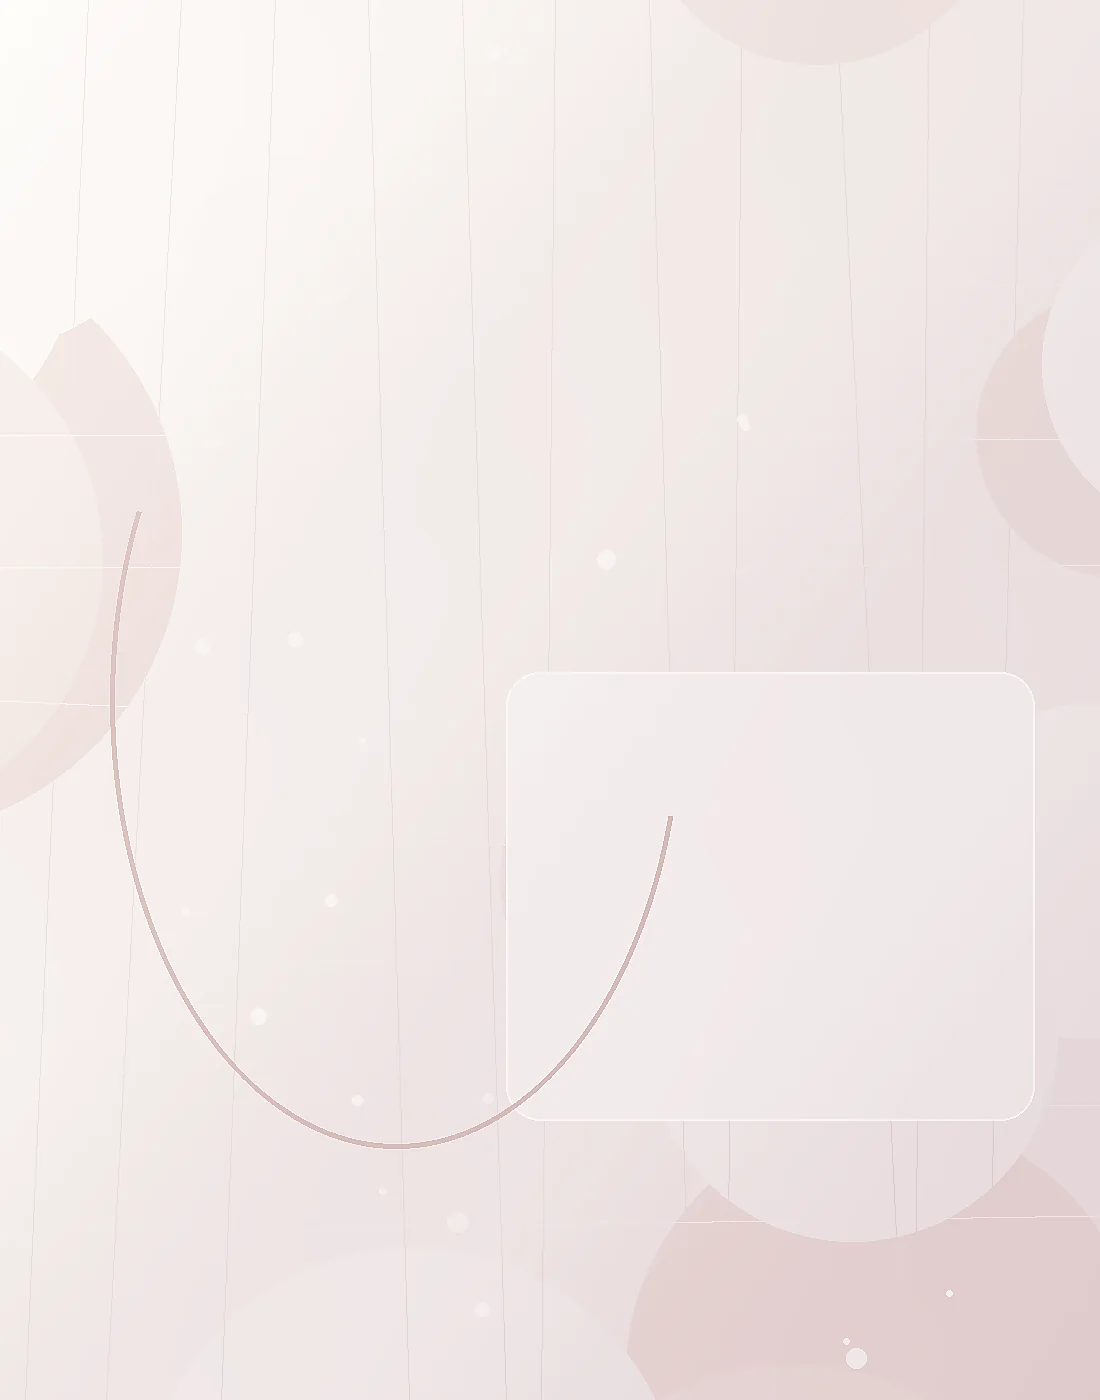
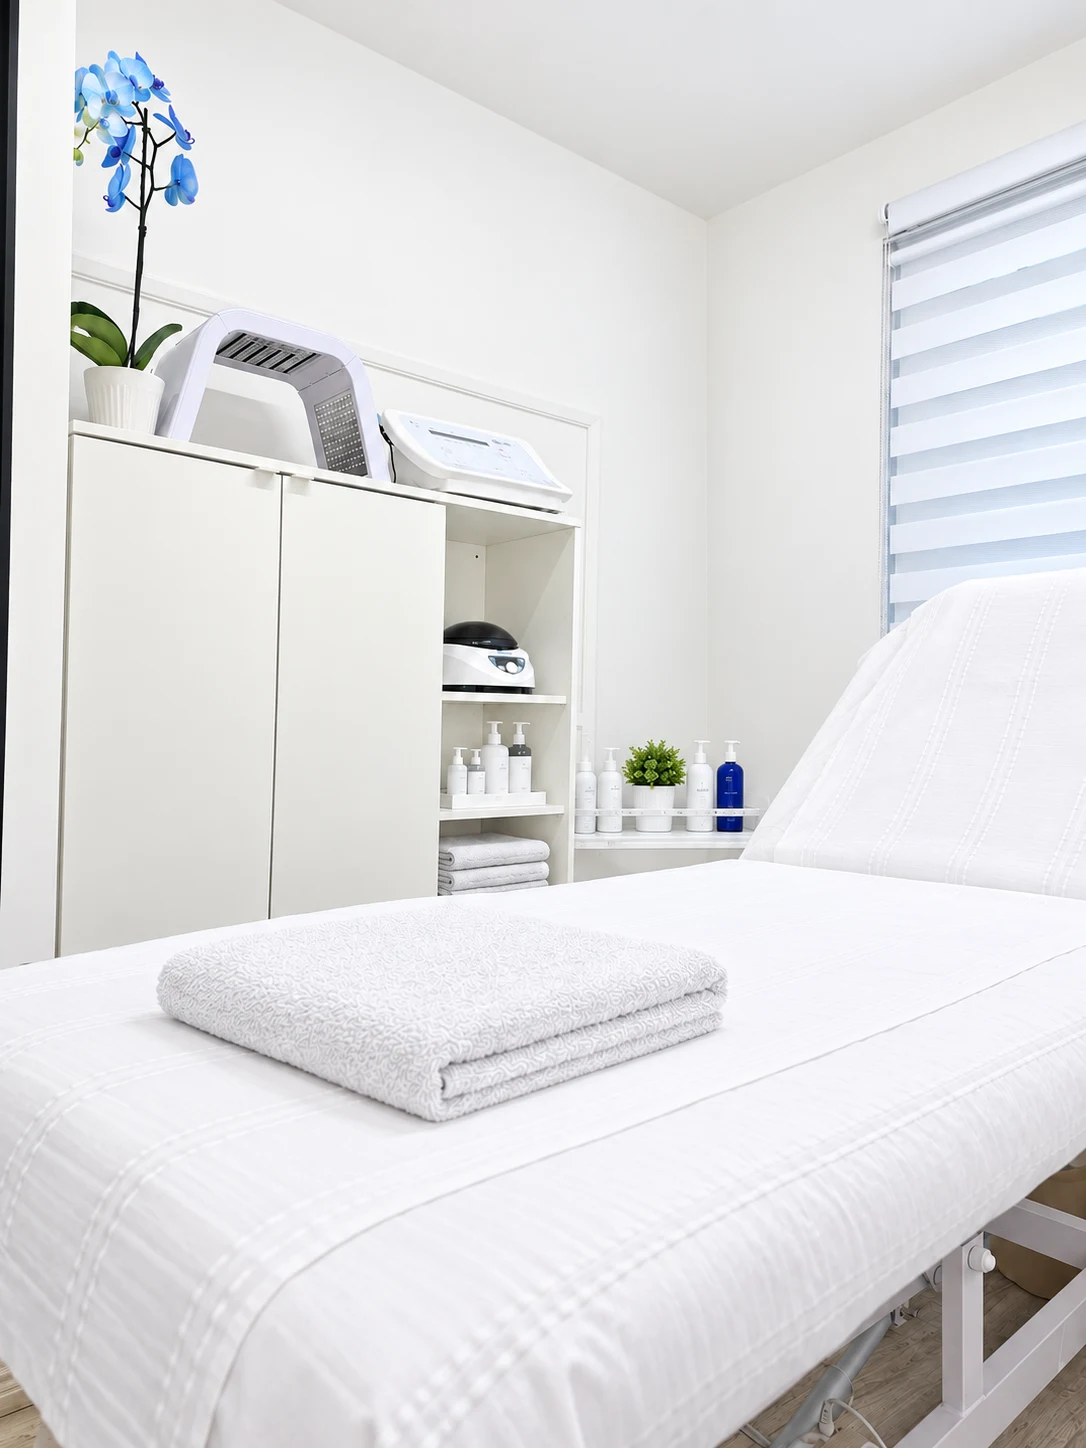
Update About clinic image and admin defaults

diff --git a/lumi-derm-website/admin/index.html b/lumi-derm-website/admin/index.html
@@ -939,7 +939,7 @@
               </div>
               <label>Clinic intro<textarea rows="3" data-content-page="pages.about.clinic.lead"></textarea></label>
               <div class="field-pair">
-                <label>Clinic image URL<input type="text" data-content-page="pages.about.clinic.image.src" placeholder="../assets/images/about-lumi-derm-studio.webp"></label>
+                <label>Clinic image URL<input type="text" data-content-page="pages.about.clinic.image.src" placeholder="../assets/images/about-lumi-derm-studio.webp?v=20261016"></label>
                 <label>Clinic image alt text<input type="text" data-content-page="pages.about.clinic.image.alt"></label>
               </div>
               <div class="field-pair">
@@ -1248,7 +1248,7 @@
     <div class="admin-toast" data-admin-toast-region role="status" aria-live="polite"></div>
     <script src="prices-template.js?v=20261013-no-discounts1"></script>
     <script src="content-template.js?v=20260817-about-dynamic1"></script>
-    <script src="admin.js?v=20261013-no-discounts1"></script>
+    <script src="admin.js?v=20261016-clinic-image1"></script>
     <script src="sender.js?v=20261013-recovery1"></script>
     <script src="subscribers.js?v=20260721-ux1"></script>
   </body>

diff --git a/lumi-derm-website/pages/about.html b/lumi-derm-website/pages/about.html
@@ -44,7 +44,7 @@
           </div>
           <div class="about-image">
             <!-- ABOUT_CLINIC_IMAGE:START · auto-generated from assets/data/content.json by the admin "Publish page text" button. -->
-            <img src="../assets/images/about-lumi-derm-studio.webp" alt="Lumi Derm Aesthetics treatment studio in London Docklands" loading="lazy" decoding="async">
+            <img src="../assets/images/about-lumi-derm-studio.webp?v=20261016" alt="Lumi Derm Aesthetics treatment studio in London Docklands" width="1086" height="1448" loading="lazy" decoding="async">
             <!-- ABOUT_CLINIC_IMAGE:END -->
           </div>
         </div>

diff --git a/lumi-derm-website/admin/admin.js b/lumi-derm-website/admin/admin.js
@@ -2016,8 +2016,10 @@ const DEFAULT_CONTENT = {
           { title: "What matters", copy: "Appointments are one-to-one, treatment plans are tailored, and product choices are considered carefully." }
         ],
         image: {
-          src: "../assets/images/about-lumi-derm-studio.webp",
-          alt: "Lumi Derm Aesthetics treatment studio in London Docklands"
+          src: "../assets/images/about-lumi-derm-studio.webp?v=20261016",
+          alt: "Lumi Derm Aesthetics treatment studio in London Docklands",
+          width: "1086",
+          height: "1448"
         }
       },
       stats: [
